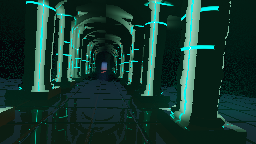
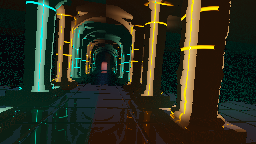
T1309e: the four things I listed as unfixed — and a second hue only reads when an OBJECT carries it
Asked whether I could just fix the four items I had listed as still open, rather than list
them. Yes. All four.

⚑ THE SECOND HUE, AND SIX PASSES FAILED AT IT FOR ONE REASON. Every previous attempt put the
second colour on a LIGHT — a warm directional rake, a daylight shaft, the network's
junctions — and each was either invisible or read as a wash. The rake even measured as
magenta paint on the rubble (70, 42, 57). The fault is structural, not a tuning miss: A HUE
NEEDS AN OBJECT THE EYE CAN POINT AT, not a tint sprayed over geometry that already has a
colour. So a hash per COLUMN now decides which family its conduits belong to, and the two
temperatures interleave through the hall at the scale of a pillar — near ones large in
frame, far ones small. It costs one hash at the shading point and nothing in the march.

And the second family got its OWN colour rather than borrowing the warm rake's: rotated
about the luma axis that one lands on magenta, which reads as neon rather than as material.
Amber against the cyan instead.

THE SURFACE, AND IT IS A BUMP ON PURPOSE. "90s CGI" is mostly that the stone is detailed at
the scale of a block and perfectly smooth at the scale of a hand. The obvious fix is another
octave in the distance function, and that is the expensive mistake — every octave there is
paid at every step of every ray and six more times per normal. A normal perturbation is paid
ONCE PER SHADED PIXEL. It cannot break a silhouette, which is why the block-scale damage
[…]

diff --git a/src/examples/shaders/sanctum.wgsl.ts b/src/examples/shaders/sanctum.wgsl.ts
@@ -104,6 +104,12 @@ struct Params {
   inlayVary: f32,     // @default 0.3  how far a conduit's brightness DIPS along its run, 0 is the uniform strip this used to be
   inlayBreak: f32,    // @default 0.3  share of a conduit's run that is dark: interruptions, so a line reads as a thing that can fail
   inlayNode: f32,     // @default 0.9  extra light POOLED where a conduit crosses a ring — junctions are where a network shows it is a network
+  inlayColorB: vec4f, // @default [1, 0.58, 0.16, 1]  the SECOND conduit family — its own colour, not the warm rake's, which rotated to magenta and read as neon rather than as a material
+  tintShare: f32,     // @default 0.34  share of columns whose conduits burn the SECOND colour — a hue the eye can point at rather than a wash over everything
+  grain: f32,         // @default 0.45  fine surface relief, as a NORMAL perturbation: paid once per shaded pixel instead of at every march step
+  grainScale: f32,    // @default 26  size of that relief — hand-scale, which is the scale the stone had nothing at
+  footHeight: f32,    // @default 0.17  the wider footing course under the plinth: a base is a STACK, and one box is why it read cheap
+  doorLife: f32,      // @default 0.7  how much the world beyond the doorway changes — 0 is the static gradient it used to be
   inlayColor: vec4f,  // @default [0.16, 1, 0.82, 1]  the powered inlay — NOT on the blackbody curve, because anything that burns is human
   inlayEmission: f32, // @default 0.85  how hard the channels burn
   spillReach: f32,    // @default 5.5  metres the conduit light travels from a column's axis — what makes it a LIGHT rather than a mark
@@ -311,7 +317,11 @@ fn beddingAt(p: vec3f) -> f32 {
   // Only on the shaft: the mouldings are each cut from one stone.
   let onShaft = (1.0 - smoothstep(params.columnRadius * 1.1, params.columnRadius * 2.0, length(vec2f(q.x, q.z))))
     * step(params.plinthHeight + 0.4, p.y);
-  let perpend = smoothstep(0.86, 1.0, perp) * params.courseDepth * 0.8 * onShaft;
+  /* The base is coursed stone as well, and leaving it smooth beside a jointed shaft is
+     half of why it read as a crate rather than as masonry. */
+  let onBase = (1.0 - smoothstep(params.columnRadius * 1.5, params.columnRadius * 2.3, max(abs(q.x), abs(q.z))))
+    * (1.0 - step(params.plinthHeight, p.y));
+  let perpend = smoothstep(0.86, 1.0, perp) * params.courseDepth * 0.8 * max(onShaft, onBase * 0.7);
 
   return bed + perpend + proud;
 }
@@ -618,11 +628,22 @@ fn sceneAt(p: vec3f) -> f32 {
      sits between the square plinth and the round shaft, which is what that transition is
      for in every order ever built; and the capital's two members are rounded on the same
      rule so the top of the column matches the bottom. */
+  /* ⚑ TWO STEPS, NOT ONE (T1309e). "The foundation square looks super cheap", and a single
+     box is why: one prism meeting the floor has exactly one silhouette and one plane for the
+     light to land on, so there is nothing for the eye to resolve as it approaches. A real
+     base is a STACK — a wider footing course, the plinth proper, then the mouldings — and
+     each step adds a shadow line at a different height. Two boxes and a torus is still three
+     shapes in a domain-repeated cell, which costs nothing per column. */
   let plinthRound = r * 0.16;
-  let plinthD = sdBox(
+  let footD = sdBox(
+    vec3f(xLocal, p.y - (params.footHeight * 0.5), zLocal),
+    vec3f(r * 1.95 - plinthRound, (params.footHeight * 0.5) - plinthRound * 0.5, r * 1.95 - plinthRound),
+  ) - plinthRound;
+  let plinthBox = sdBox(
     vec3f(xLocal, p.y - (params.plinthHeight * 0.5), zLocal),
     vec3f(r * 1.62 - plinthRound, params.plinthHeight * 0.5 - plinthRound * 0.5, r * 1.62 - plinthRound),
   ) - plinthRound;
+  let plinthD = min(footD, plinthBox);
   /* THE TORUS. A square plinth carrying a round shaft needs something round in between or
      the eye sees two unrelated solids stacked. Swept about the column's axis, so it is a
      circle of a circle and costs one more length(). */
@@ -736,6 +757,38 @@ fn sceneAt(p: vec3f) -> f32 {
   return min(min(carved, vaultD), floorD);
 }
 
+/**
+ * THE SURFACE UP CLOSE (T1309e) — and it is a BUMP, deliberately, not a displacement.
+ *
+ * "90s CGI vibes" is mostly this: the stone is geometrically detailed at the scale of a
+ * block and perfectly smooth at the scale of a hand, so a column two metres from the camera
+ * has nothing on it. The obvious fix is to put the detail in the distance function, and that
+ * is the expensive mistake — every octave there is paid at EVERY STEP OF EVERY RAY and six
+ * more times per normal.
+ *
+ * A normal perturbation is paid ONCE PER SHADED PIXEL. It cannot break a silhouette, which
+ * is exactly why the block-scale damage stays in the SDF where it belongs; what it can do is
+ * give the light something to catch at arm's length, which is all this was missing.
+ */
+fn grainNormal(p: vec3f, n: vec3f) -> vec3f {
+  let s = max(params.grainScale, 0.5);
+  let e = 0.035;
+  let base = valueNoise(p * s);
+  let gx = valueNoise((p + vec3f(e, 0.0, 0.0)) * s) - base;
+  let gy = valueNoise((p + vec3f(0.0, e, 0.0)) * s) - base;
+  let gz = valueNoise((p + vec3f(0.0, 0.0, e)) * s) - base;
+  let grad = vec3f(gx, gy, gz) / e;
+  // Only the component along the surface tilts it; the normal component just scales depth.
+  let tangential = grad - (n * dot(grad, n));
+  /* ⚑ AND IT SPARES THE POLISHED FLOOR. Perturbing an up-facing normal at the floor tips it
+     past the 'n.y > 0.75' test the reflection is gated on, so the first version of this
+     silently turned the mirror off and left a matte brown slab — a texture that destroys the
+     one material in the piece that is not stone. A floor you can see the hall in is smooth;
+     that is what polished means. */
+  let onFloor = step(0.86, n.y) * (1.0 - step(0.7, p.y));
+  return normalize(n - (tangential * params.grain * (1.0 - onFloor)));
+}
+
 fn normalAt(p: vec3f) -> vec3f {
   let e = vec2f(0.0016, 0.0);
   return normalize(vec3f(
@@ -772,9 +825,36 @@ fn rotateHue(base: vec3f, turn: f32) -> vec3f {
  * that a turn slow enough to be subtle is a turn nobody ever sees. Free-running on
  * 'frameU.absTime' (§V436), so a timeline lap cannot snap it.
  */
+/**
+ * WHICH COLOUR THIS COLUMN'S CONDUITS BURN (T1309e).
+ *
+ * The frame has been one hue for six passes, and every previous attempt put the second
+ * colour on a LIGHT — a warm rake, a daylight shaft, the junctions. Each was either invisible
+ * or read as a wash, and the reason is the same one every time: a second hue needs to be
+ * carried by an OBJECT the eye can point at, not sprayed across the geometry that already
+ * has a colour.
+ *
+ * So a hash per column decides which family its network belongs to. Two temperatures are
+ * then interleaved through the whole hall at the scale of a PILLAR — near ones large in
+ * frame, far ones small — and the eye reads a place with two kinds of light in it rather
+ * than one tinted picture. It costs one hash at the shading point and nothing in the march.
+ */
+fn conduitTint(p: vec3f) -> f32 {
+  let bayIndex = i32(bayOf(p.z));
+  let side = select(0, 1, p.x >= 0.0);
+  let roll = unitFloat(hash3i(vec3i(bayIndex, side, 77), GLYPH_SEED));
+  return step(roll, clamp(params.tintShare, 0.0, 1.0));
+}
+
 fn inlayHue() -> vec3f {
   let phase = (frameU.absTime / max(params.hueTurn, 1.0)) * 6.2831853;
   return rotateHue(params.inlayColor.rgb, (sin(phase) * 0.5) * params.hueArc);
+}
+
+/* The second family, travelling the same arc as the first so the two stay related. */
+fn inlayHueB() -> vec3f {
+  let phase = (frameU.absTime / max(params.hueTurn, 1.0)) * 6.2831853;
+  return rotateHue(params.inlayColorB.rgb, (sin(phase) * 0.5) * params.hueArc);
 }
 
 fn warmHue() -> vec3f {
@@ -872,9 +952,20 @@ fn beyondDoor(eye: vec3f, dir: vec3f, key: f32) -> vec3f {
   if (inside <= 0.0) { return params.fogColor.rgb; }
   // The horizon: warm ground below, cold sky above, and the transition is where the eye
   // reads a distance rather than a wall.
-  let height = clamp((b.y - 0.1) / 3.8, 0.0, 1.0);
-  let field = mix(params.warmColor.rgb * 0.55, params.keyColor.rgb * 1.5, smoothstep(0.1, 0.72, height));
-  let core = exp(-abs(b.y - 1.4) * 0.6) * exp(-abs(b.x) * 0.85);
+  /* ⚑ AND IT EVOLVES (T1309e). The doorway is the one thing the camera is aimed at for the
+     whole run and it was a static gradient — the focal point of the piece was the only part
+     of it that never changed. Three coprime lanes (29, 37, 53 s), so what is beyond the door
+     is weather rather than a setting: the horizon RISES AND FALLS, the core DRIFTS across
+     the aperture instead of sitting dead centre, and the whole field warms and cools. Same
+     rule as the camera — coprime periods, so it never returns to a state a viewer remembers. */
+  let dt = frameU.absTime;
+  let horizon = 0.1 + (params.doorLife * 0.9 * sin(dt / 29.0 * 6.2831853));
+  let coreX = params.doorLife * 0.75 * sin(dt / 37.0 * 6.2831853 + 0.7);
+  let warmth2 = 0.5 + (0.5 * sin(dt / 53.0 * 6.2831853 + 2.1));
+  let height = clamp((b.y - horizon) / 3.8, 0.0, 1.0);
+  let sky = mix(params.keyColor.rgb * 1.5, params.warmColor.rgb * 1.9, warmth2 * params.doorLife);
+  let field = mix(params.warmColor.rgb * 0.55, sky, smoothstep(0.1, 0.72, height));
+  let core = exp(-abs(b.y - 1.4) * 0.6) * exp(-abs(b.x - coreX) * 0.85);
   let beyond = (field + (params.keyColor.rgb * core * 0.9)) * params.keyIntensity * key;
   /* ⚑ AND IT IS HAZED BY THE DISTANCE TO IT, WHICH THE FIRST VERSION WAS NOT (T1306c).
      Owner: *"we can see the next room being white bright in the absolute dark areas, and
@@ -1078,6 +1169,7 @@ fn fs(@location(0) uv: vec2f) -> @location(0) vec4f {
      the fix: a value that varies per FRAME must never be evaluated per SAMPLE. */
   let hue = inlayHue();
   let warmth = warmHue();
+  let hueB = inlayHueB();
   // Same rule as the hue: a per-frame value, evaluated once per fragment.
   let key = keyDrive();
   /* ─── THE CAMERA (T1309d) ───────────────────────────────────────────────────────────
@@ -1154,7 +1246,11 @@ fn fs(@location(0) uv: vec2f) -> @location(0) vec4f {
   var colour = beyondDoor(eye, dir, key);
   if (hit) {
     let p = eye + dir * travelled;
-    let n = normalAt(p);
+    let n = grainNormal(p, normalAt(p));
+    /* This column's conduits burn one family or the other. Resolved at the SHADING point,
+       so it costs one hash per pixel and nothing in the distance function. */
+    let tint = conduitTint(p);
+    let myHue = mix(hue, hueB, tint);
     /* One key, from the doorway at the end of the nave: a direction rather than a point,
        because the doorway is far enough that its rays are parallel by the time they reach
        anything the camera can see. */
@@ -1204,15 +1300,15 @@ fn fs(@location(0) uv: vec2f) -> @location(0) vec4f {
     /* ⚑ THE EMISSION CARRIES BOTH COLOURS. A run burns the conduit's hue; a junction burns
        the counter-hue. That is where the frame's second temperature actually lives — see
        'inlayAt', and the render that proved a directional warm fill reads as red paint. */
-    let emission = mix(hue, warmth, channel.y) * params.inlayEmission * channel.x;
+    let emission = mix(myHue, mix(hueB, hue, tint), channel.y) * params.inlayEmission * channel.x;
     let spill = inlaySpillAt(p) * params.inlaySpill;
     /* ⚑ DESATURATED, because a stone lit by a cyan light is not a cyan stone. Multiplying
        the albedo by a fully saturated hue drives every channel the hue is weak in to zero,
        so the whole hall collapses to one colour and the material stops existing — which is
        the "everything is cyan and grey" reading from the other side. Real bounce carries
        the source's tint, not its purity. */
-    let bounced = mix(vec3f(1.0), hue, 0.5) * spill;
-    let fill = mix(vec3f(1.0), hue, 0.65) * params.ambient;
+    let bounced = mix(vec3f(1.0), myHue, 0.5) * spill;
+    let fill = mix(vec3f(1.0), myHue, 0.65) * params.ambient;
     /* THE COUNTER-LIGHT, and what is left of it after the junctions took its job. The
        shipped frame measured saturation 0.55 — not grey in the desaturated sense at all —
        but every source in it was COOL, so the average of the picture was one hue and read
@@ -1256,7 +1352,7 @@ fn fs(@location(0) uv: vec2f) -> @location(0) vec4f {
     if (params.polish > 0.001 && n.y > 0.75 && p.y < 0.6) {
       let fresnel = pow(1.0 - max(dot(n, -dir), 0.0), 4.0);
       let weight = params.polish * mix(0.12, 1.0, fresnel);
-      reflected = reflectionAt(p, n, dir, hue, warmth) * weight;
+      reflected = reflectionAt(p, n, dir, myHue, warmth) * weight;
     }
     // Aerial perspective: exponential in depth, which is also what lets the march stop
     // early without a visible wall of nothing.

diff --git a/src/examples/documents/sanctum.ts b/src/examples/documents/sanctum.ts
@@ -142,6 +142,22 @@ export const sanctumDocument = document(
         inlayVary: 0.42,
         inlayBreak: 0.06,
         inlayNode: 0.9,
+        /* ⚑ A SECOND HUE CARRIED BY AN OBJECT (T1309e). Six passes put the second colour on
+           a LIGHT — a warm rake, a daylight shaft, the junctions — and every one was either
+           invisible or read as a wash. A hash per column decides which family its network
+           belongs to instead, so two temperatures interleave through the hall at the scale
+           of a PILLAR and the eye has something to point at. */
+        inlayColorB: [1, 0.58, 0.16, 1],
+        tintShare: 0.34,
+        /* The close-range detail, as a normal perturbation rather than a displacement: paid
+           once per shaded pixel instead of at every step of every ray. */
+        grain: 0.16,
+        grainScale: 26,
+        /* A base is a STACK. One box is why the foundation read cheap. */
+        footHeight: 0.17,
+        /* The doorway is what the camera is aimed at for the whole run, and it was the one
+           thing in the piece that never changed. */
+        doorLife: 0.7,
         inlayColor: [0.16, 1, 0.82, 1],
         inlayEmission: 3.4,
         spillReach: 5.5,
@@ -182,13 +198,13 @@ export const sanctumDocument = document(
         pivot: 0.22,
         exposure: 1.35,
         dust: 0.075,
-        dustSteps: 18,
+        dustSteps: 14,
         dustFloor: 2.6,
         shaft: 0.55,
         polish: 0.55,
         reflectSteps: 34,
         reflectFade: 12,
-        steps: 96,
+        steps: 72,
       }, {
         label: "temple1",
         parameters: {
